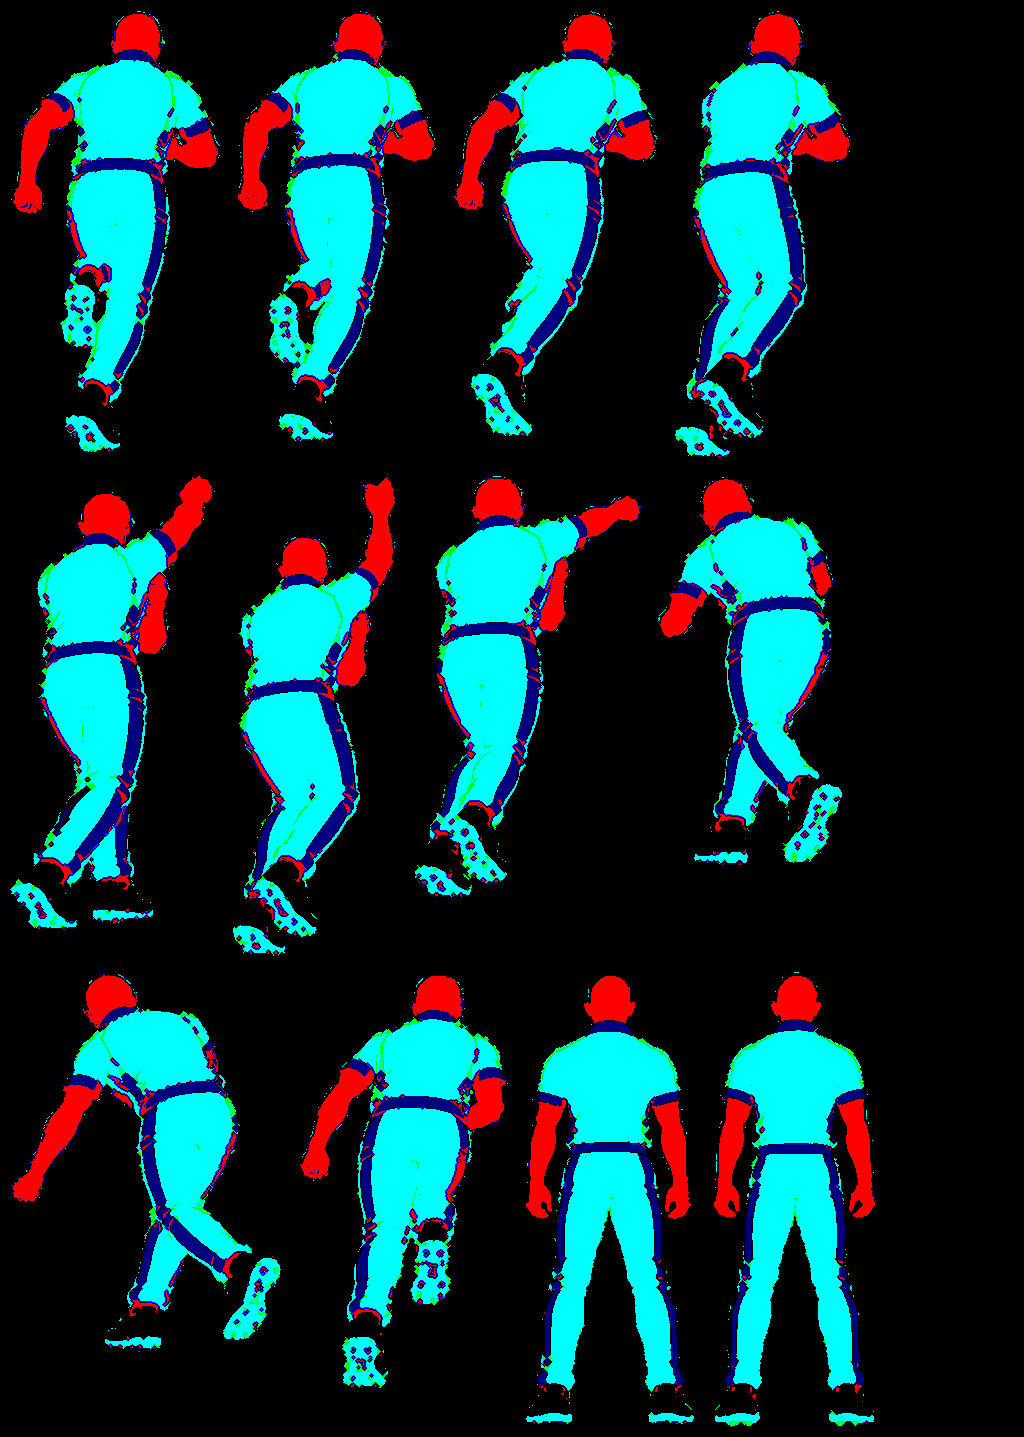
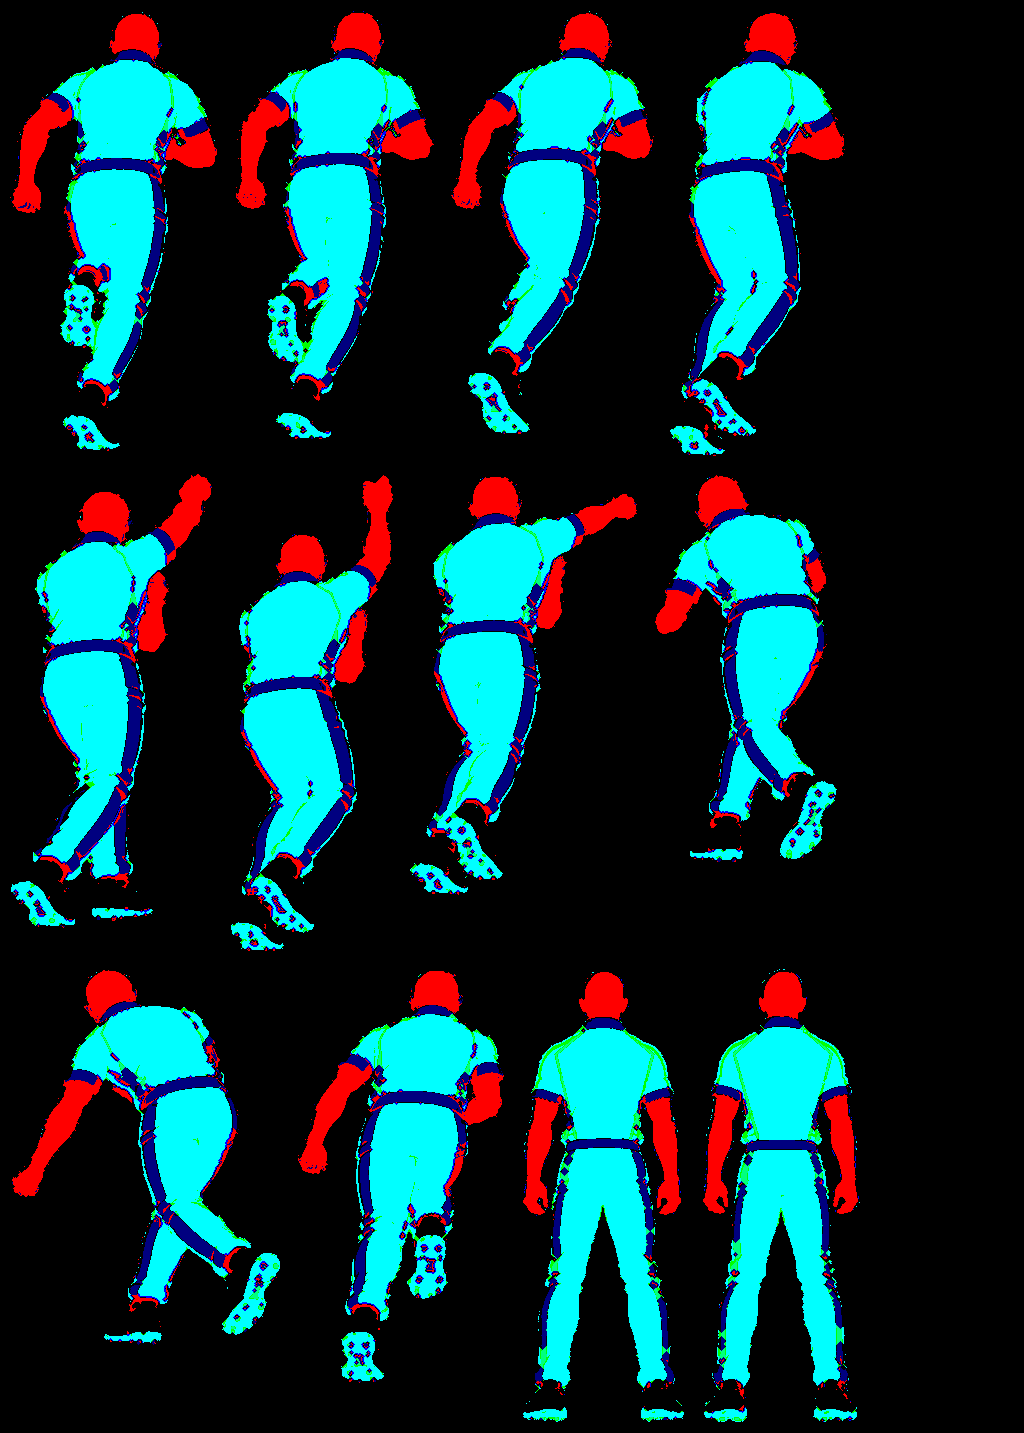
Spinner from behind: the transparent sheet, and his standing poses are the pace bowler as the match really draws him (navy yoke, gold piping), not the plain jersey
Claude-Session: https://claude.ai/code/session_01NK7tbrKg5PdA6fuyEUPXLd

diff --git a/js/kitsheets.js b/js/kitsheets.js
@@ -2,4 +2,4 @@
 // [x, y, w, h, feet x, feet y] in sheet order; place: the crest (front: [x, y, size, squash x,
 // squash y, tilt]) or the name-and-number print (back: [x, y, width, squash x, squash y, tilt,
 // name dx, dy, number dx, dy]) per frame; shading references for the repaint.
-export const KIT_SHEETS = {"front":{"frames":[[4,4,227,609,115.7,602],[235,4,204,603,108.5,596],[443,4,232,595,100.6,588],[679,4,181,601,90.4,594],[4,617,184,670,98.7,663],[192,617,204,657,107.8,650],[400,617,234,531,161.4,524],[638,617,200,532,104.9,525],[4,1291,201,557,90.7,550],[209,1291,216,579,105.9,572]],"place":[[153,167,36,1,1,0],[377,154,35,1,1,0],[591,154,35,1,1,0],[795,159,32,0.9,1,0],[142,863,31,0.95,1,5],[363,868,31,0.95,1,5],[549,761,34,1,0.85,0],[754,762,31,0.95,0.85,-5],[148,1439,35,1,1,0],[359,1454,36,1,1,0]],"refPx":580,"suit":[0.0376,0.2954,0.587],"trim":[0.5314,0.8456,0.9029],"skin":0.7306,"tones":[0.2955,0.2955,0.8423],"hair":{"beard_full":0.2269,"beard_goatee":0.1998,"beard_long":0.1906,"bun":0.2773,"buzz":0.2963,"cap":0.2815,"curly":0.2799,"dreads":0.2727,"long":0.2593,"messy":0.2999,"part":0.3383,"ponytail":0.2813,"spiky":0.2762},"size":[1024,1874]},"back":{"frames":[[4,4,223,593,111.2,586],[231,4,203,585,111.9,578],[438,4,226,585,125.1,578],[668,4,184,572,61.0,565],[4,601,172,628,61.9,621],[180,601,213,636,106.9,629],[397,601,240,538,146.8,531],[641,601,234,534,104.0,527],[4,1241,213,572,115.0,565],[221,1241,215,586,107.6,579]],"place":[[116.6,158.1,88.0,1.0,1.0,0.4,0,0,0,0],[343.2,149.0,88.0,1.0,1.0,0.8,0,0,0,0],[558.0,148.9,88.0,1.0,1.0,0.0,0,0,0,0],[738,149.2,84.5,0.88,1.0,2,-4,0,-2,0],[95.9,814.9,81.0,0.85,0.95,15.1,0,0,0,0],[306.5,801.6,81.0,0.85,0.95,10.9,0,0,0,0],[502,714.2,86.2,1.0,0.75,-6,0,0,0,0],[741,714.7,86.2,1.0,0.75,-6,0,0,0,0],[117.6,1385.2,88.0,1.0,1.0,0.4,0,0,0,0],[331.2,1393.8,89.8,1.0,1.0,0.8,0,0,0,0]],"refPx":563,"suit":[0.032,0.3087,0.5514],"trim":[0.5231,0.8489,0.9123],"skin":0.7332,"tones":[0.3087,0.3087,0.8455],"hair":{"bun":0.2553,"buzz":0.2918,"cap":0.2709,"curly":0.2702,"dreads":0.2718,"long":0.2647,"messy":0.2757,"part":0.2824,"ponytail":0.2667,"spiky":0.2812},"size":[1024,1831]},"spin-front":{"frames":[[4,4,182,471,90.8,464],[190,4,175,474,103.6,467],[369,4,172,473,91.2,466],[545,4,173,483,87.0,476],[722,4,165,515,62.2,508],[4,523,164,565,80.0,558],[172,523,152,564,71.3,544],[328,523,165,547,53.2,528],[497,523,255,478,85.7,461],[756,523,173,413,62.2,400],[4,1092,264,385,95.9,378],[272,1092,180,405,108.1,398],[456,1092,144,425,76.3,418],[604,1092,179,431,74.7,424],[787,1092,192,438,94.7,431]],"place":[[133,134,26,1,1,0],[324,133,24,1,1,0],[503,130,24,1,1,0],[663,127,24,1,1,0],[848,180,24,1,1,0],[145,711,22,0.9,1,0],[268,717,21,0.9,1,0],[456,715,21,0.9,1,0],[646,705,20,0.9,0.9,10],[872,632,20,0.9,0.85,0],[118,1191,19,0.9,0.85,0],[368,1192,21,1,0.9,0],[524,1199,22,1,0.95,0],[728,1206,26,1,1,0],[918,1204,26,1,1,0]],"refPx":441,"suit":[0.0299,0.3355,0.4715],"trim":[0.548,0.8593,0.9122],"skin":0.7273,"tones":[0.341,0.154,0.8608],"hair":{"beard_full":0.1972,"beard_goatee":0.2001,"beard_long":0.2064,"bun":0.2433,"buzz":0.241,"cap":0.2898,"curly":0.2653,"dreads":0.2535,"long":0.2468,"messy":0.2721,"part":0.2843,"ponytail":0.2781,"spiky":0.2609},"size":[1024,1534]},"spin-back":{"frames":[[4,4,222,455,89.7,448],[230,4,212,444,76.3,437],[446,4,218,439,62.3,432],[668,4,189,461,44.7,454],[4,469,217,468,77.7,461],[225,469,178,493,44.7,486],[407,469,241,435,49.8,428],[652,469,197,404,103.5,397],[4,966,284,392,161.7,385],[292,966,222,429,72.1,422],[518,966,183,467,91.3,460],[705,966,178,467,89.2,460]],"place":[],"refPx":455,"suit":[0.0417,0.3581,0.5425],"trim":[0.5836,0.8605,0.9225],"skin":0.7246,"hair":{},"size":[1024,1437]},"bat-back":{"frames":[[4,4,248,534,127.4,527],[256,4,291,536,114.4,529],[551,4,247,535,126.7,528],[802,4,283,538,117.1,531],[1089,4,237,534,113.5,527],[1330,4,310,635,102.2,628],[4,643,438,523,123.2,516],[446,643,394,523,242.9,516],[844,643,398,524,207.5,517],[1246,643,243,468,91.2,461],[1493,643,229,458,81.5,451],[1726,643,197,456,73.9,449],[4,1171,213,517,108.2,510],[221,1171,264,515,121.3,508],[489,1171,381,501,205.5,494],[874,1171,329,471,80.2,464],[1207,1171,201,510,95.2,503],[1412,1171,161,645,75.2,638],[1577,1171,302,505,119.4,498],[4,1820,340,405,92.8,398],[348,1820,373,419,82.2,412],[725,1820,235,523,91.4,516],[964,1820,195,665,107.2,658],[1163,1820,336,523,170.4,516],[1503,1820,388,542,201.0,535],[4,2489,364,523,108.1,516]],"place":[[110.5,145,87.2,1,1,16.3,0,0,0,0],[366.5,144,89.6,1,1,21.6,0,0,0,0],[660.0,146,86.4,1,1,17.1,0,0,0,0],[905.0,148,87.2,1,1,18.6,0,0,0,0],[1199.0,145,88.0,1,1,19.2,0,0,0,0],[1473.0,237,91.2,1,1,14.7,0,0,0,0],[157.0,762,93.6,1,1,3.2,0,0,0,0],[761.5,781,94.4,1,1,10.1,0,0,0,0],[1171.0,781,90.4,1,1,9.6,0,0,0,0],[1355.0,760,84.0,1,1,1.5,0,0,0,0],[1592.0,760,91.2,1,1,-0.9,0,0,0,0],[1815.0,767,96.0,1,1,3.4,0,0,0,0],[122.5,1293,85.6,1,1,16.8,0,0,0,0],[324.5,1303,96.8,1,1,4.1,0,0,0,0],[597.0,1301,95.2,1,1,8.8,0,0,0,0],[972.5,1302,96.0,1,1,7.3,0,0,0,0],[1324.5,1307,92.0,1,1,6.0,0,0,0,0],[1483.5,1450,92.0,1,1,1.6,0,0,0,0],[1760.5,1408,87.2,1,1,6.1,0,0,0,0],[114.0,1958,103.2,1,1,6.5,0,0,0,0],[504.5,1956,94.4,1,1,-0.9,0,0,0,0],[824.5,1941,94.4,1,1,7.8,0,0,0,0],[1083.5,2081,88.0,1,1,9.2,0,0,0,0],[1261.5,1955,98.4,1,1,11.6,0,0,0,0],[1822.0,1972,83.2,1,1,11.6,0,0,0,0],[88.0,2611,92.0,1,1,0.4,0,0,0,0]],"refPx":522,"suit":[0.0269,0.3529,0.5925],"trim":[0.5451,0.8592,0.9209],"skin":0.6414,"tones":[0.3586,0.2,0.8608],"hair":{},"size":[2048,3016]},"field":{"frames":[[4,4,425,453,214.6,446],[433,4,376,459,180.8,452],[813,4,407,455,200.5,448],[1224,4,294,543,132.5,536],[1522,4,266,555,119.8,548],[4,563,282,545,146.0,538],[290,563,323,540,153.3,533],[617,563,416,478,255.7,471],[1037,563,399,471,239.2,464],[1440,563,416,479,226.6,472],[4,1112,498,472,240.3,465],[506,1112,334,461,194.5,454],[844,1112,389,467,201.6,460],[1237,1112,290,468,134.9,461],[1531,1112,237,468,118.4,461],[4,1588,331,343,227.7,336],[339,1588,473,278,360.6,271],[816,1588,480,172,199.7,165],[1300,1588,337,172,238.3,165],[4,1935,444,498,209.6,491],[452,1935,293,588,174.3,581],[749,1935,424,503,212.8,496],[1177,1935,325,396,172.6,389],[1506,1935,354,418,177.7,411],[4,2527,358,410,163.6,403],[366,2527,433,269,300.7,262],[803,2527,313,384,165.7,377],[1120,2527,314,393,165.6,386],[1438,2527,418,382,217.0,375],[4,2941,455,291,300.0,284],[463,2941,279,574,142.6,567],[746,2941,283,525,142.6,518],[1033,2941,330,573,155.7,566],[1367,2941,288,573,148.0,566],[1659,2941,234,574,118.0,567],[4,3519,232,571,109.8,564],[240,3519,219,572,103.9,565],[463,3519,236,568,117.4,561],[703,3519,228,575,111.3,568],[935,3519,240,570,118.5,563],[1179,3519,238,570,119.8,563],[1421,3519,223,572,107.1,565]],"place":[[10,10,0,1,1,0,0,0,0,0],[439,10,0,1,1,0,0,0,0,0],[1017.0,139,100.8,1,1,1.9,0,0,0,0],[1394.5,134,101.6,1,1,22.4,0,0,0,0],[1652.0,138,104.0,1,1,11.0,0,0,0,0],[174.0,696,97.6,1,1,7.0,0,0,0,0],[458.5,691,98.4,1,1,11.3,0,0,0,0],[623,569,0,1,1,0,0,0,0,0],[1043,569,0,1,1,0,0,0,0,0],[1446,569,0,1,1,0,0,0,0,0],[10,1118,0,1,1,0,0,0,0,0],[512,1118,0,1,1,0,0,0,0,0],[850,1117,0,1,1,0,0,0,0,0],[1405.0,1231,90.4,1,1,15.0,0,0,0,0],[1673.0,1223,85.6,1,1,3.9,0,0,0,0],[10,1594,0,1,1,0,0,0,0,0],[345,1594,0,1,1,0,0,0,0,0],[822,1594,0,1,1,0,0,0,0,0],[1306,1594,0,1,1,0,0,0,0,0],[10,1941,0,1,1,0,0,0,0,0],[458,1941,0,1,1,0,0,0,0,0],[755,1941,0,1,1,0,0,0,0,0],[1183,1941,0,1,1,0,0,0,0,0],[1512,1941,0,1,1,0,0,0,0,0],[10,2533,0,1,1,0,0,0,0,0],[372,2533,0,1,1,0,0,0,0,0],[973.5,2643,76.8,1,1,1.8,0,0,0,0],[1296.5,2644,77.6,1,1,8.0,0,0,0,0],[1690.0,2629,61.6,1,1,16.7,0,0,0,0],[10,2947,0,1,1,0,0,0,0,0],[469,2947,0,1,1,0,0,0,0,0],[752,2947,0,1,1,0,0,0,0,0],[1039,2947,0,1,1,0,0,0,0,0],[1373,2947,0,1,1,0,0,0,0,0],[1665,2947,0,1,1,0,0,0,0,0],[10,3525,0,1,1,0,0,0,0,0],[246,3525,0,1,1,0,0,0,0,0],[469,3525,0,1,1,0,0,0,0,0],[709,3525,0,1,1,0,0,0,0,0],[941,3525,0,1,1,0,0,0,0,0],[1185,3525,0,1,1,0,0,0,0,0],[1427,3525,0,1,1,0,0,0,0,0]],"refPx":441,"suit":[0.0644,0.3368,0.6113],"trim":[0.5563,0.8516,0.9209],"skin":0.7707,"tones":[0.3422,0.2038,0.8539],"hair":{},"size":[2048,4098]}};
+export const KIT_SHEETS = {"front":{"frames":[[4,4,227,609,115.7,602],[235,4,204,603,108.5,596],[443,4,232,595,100.6,588],[679,4,181,601,90.4,594],[4,617,184,670,98.7,663],[192,617,204,657,107.8,650],[400,617,234,531,161.4,524],[638,617,200,532,104.9,525],[4,1291,201,557,90.7,550],[209,1291,216,579,105.9,572]],"place":[[153,167,36,1,1,0],[377,154,35,1,1,0],[591,154,35,1,1,0],[795,159,32,0.9,1,0],[142,863,31,0.95,1,5],[363,868,31,0.95,1,5],[549,761,34,1,0.85,0],[754,762,31,0.95,0.85,-5],[148,1439,35,1,1,0],[359,1454,36,1,1,0]],"refPx":580,"suit":[0.0376,0.2954,0.587],"trim":[0.5314,0.8456,0.9029],"skin":0.7306,"tones":[0.2955,0.2955,0.8423],"hair":{"beard_full":0.2269,"beard_goatee":0.1998,"beard_long":0.1906,"bun":0.2773,"buzz":0.2963,"cap":0.2815,"curly":0.2799,"dreads":0.2727,"long":0.2593,"messy":0.2999,"part":0.3383,"ponytail":0.2813,"spiky":0.2762},"size":[1024,1874]},"back":{"frames":[[4,4,223,593,111.2,586],[231,4,203,585,111.9,578],[438,4,226,585,125.1,578],[668,4,184,572,61.0,565],[4,601,172,628,61.9,621],[180,601,213,636,106.9,629],[397,601,240,538,146.8,531],[641,601,234,534,104.0,527],[4,1241,213,572,115.0,565],[221,1241,215,586,107.6,579]],"place":[[116.6,158.1,88.0,1.0,1.0,0.4,0,0,0,0],[343.2,149.0,88.0,1.0,1.0,0.8,0,0,0,0],[558.0,148.9,88.0,1.0,1.0,0.0,0,0,0,0],[738,149.2,84.5,0.88,1.0,2,-4,0,-2,0],[95.9,814.9,81.0,0.85,0.95,15.1,0,0,0,0],[306.5,801.6,81.0,0.85,0.95,10.9,0,0,0,0],[502,714.2,86.2,1.0,0.75,-6,0,0,0,0],[741,714.7,86.2,1.0,0.75,-6,0,0,0,0],[117.6,1385.2,88.0,1.0,1.0,0.4,0,0,0,0],[331.2,1393.8,89.8,1.0,1.0,0.8,0,0,0,0]],"refPx":563,"suit":[0.032,0.3087,0.5514],"trim":[0.5231,0.8489,0.9123],"skin":0.7332,"tones":[0.3087,0.3087,0.8455],"hair":{"bun":0.2553,"buzz":0.2918,"cap":0.2709,"curly":0.2702,"dreads":0.2718,"long":0.2647,"messy":0.2757,"part":0.2824,"ponytail":0.2667,"spiky":0.2812},"size":[1024,1831]},"spin-front":{"frames":[[4,4,182,471,90.8,464],[190,4,175,474,103.6,467],[369,4,172,473,91.2,466],[545,4,173,483,87.0,476],[722,4,165,515,62.2,508],[4,523,164,565,80.0,558],[172,523,152,564,71.3,544],[328,523,165,547,53.2,528],[497,523,255,478,85.7,461],[756,523,173,413,62.2,400],[4,1092,264,385,95.9,378],[272,1092,180,405,108.1,398],[456,1092,144,425,76.3,418],[604,1092,179,431,74.7,424],[787,1092,192,438,94.7,431]],"place":[[133,134,26,1,1,0],[324,133,24,1,1,0],[503,130,24,1,1,0],[663,127,24,1,1,0],[848,180,24,1,1,0],[145,711,22,0.9,1,0],[268,717,21,0.9,1,0],[456,715,21,0.9,1,0],[646,705,20,0.9,0.9,10],[872,632,20,0.9,0.85,0],[118,1191,19,0.9,0.85,0],[368,1192,21,1,0.9,0],[524,1199,22,1,0.95,0],[728,1206,26,1,1,0],[918,1204,26,1,1,0]],"refPx":441,"suit":[0.0299,0.3355,0.4715],"trim":[0.548,0.8593,0.9122],"skin":0.7273,"tones":[0.341,0.154,0.8608],"hair":{"beard_full":0.1972,"beard_goatee":0.2001,"beard_long":0.2064,"bun":0.2433,"buzz":0.241,"cap":0.2898,"curly":0.2653,"dreads":0.2535,"long":0.2468,"messy":0.2721,"part":0.2843,"ponytail":0.2781,"spiky":0.2609},"size":[1024,1534]},"spin-back":{"frames":[[4,4,221,454,88.4,447],[229,4,211,442,75.2,435],[444,4,216,437,61.2,430],[664,4,188,459,43.8,452],[4,467,215,468,76.8,461],[223,467,177,491,44.9,484],[404,467,240,435,49.8,428],[648,467,195,402,103.2,395],[4,962,283,390,162.5,383],[291,962,220,428,71.2,421],[515,962,176,467,87.9,460],[695,962,171,467,85.4,460]],"place":[],"refPx":455,"suit":[0.0665,0.3627,0.5427],"trim":[0.5613,0.8565,0.9204],"skin":0.7205,"hair":{},"size":[1024,1433]},"bat-back":{"frames":[[4,4,248,534,127.4,527],[256,4,291,536,114.4,529],[551,4,247,535,126.7,528],[802,4,283,538,117.1,531],[1089,4,237,534,113.5,527],[1330,4,310,635,102.2,628],[4,643,438,523,123.2,516],[446,643,394,523,242.9,516],[844,643,398,524,207.5,517],[1246,643,243,468,91.2,461],[1493,643,229,458,81.5,451],[1726,643,197,456,73.9,449],[4,1171,213,517,108.2,510],[221,1171,264,515,121.3,508],[489,1171,381,501,205.5,494],[874,1171,329,471,80.2,464],[1207,1171,201,510,95.2,503],[1412,1171,161,645,75.2,638],[1577,1171,302,505,119.4,498],[4,1820,340,405,92.8,398],[348,1820,373,419,82.2,412],[725,1820,235,523,91.4,516],[964,1820,195,665,107.2,658],[1163,1820,336,523,170.4,516],[1503,1820,388,542,201.0,535],[4,2489,364,523,108.1,516]],"place":[[110.5,145,87.2,1,1,16.3,0,0,0,0],[366.5,144,89.6,1,1,21.6,0,0,0,0],[660.0,146,86.4,1,1,17.1,0,0,0,0],[905.0,148,87.2,1,1,18.6,0,0,0,0],[1199.0,145,88.0,1,1,19.2,0,0,0,0],[1473.0,237,91.2,1,1,14.7,0,0,0,0],[157.0,762,93.6,1,1,3.2,0,0,0,0],[761.5,781,94.4,1,1,10.1,0,0,0,0],[1171.0,781,90.4,1,1,9.6,0,0,0,0],[1355.0,760,84.0,1,1,1.5,0,0,0,0],[1592.0,760,91.2,1,1,-0.9,0,0,0,0],[1815.0,767,96.0,1,1,3.4,0,0,0,0],[122.5,1293,85.6,1,1,16.8,0,0,0,0],[324.5,1303,96.8,1,1,4.1,0,0,0,0],[597.0,1301,95.2,1,1,8.8,0,0,0,0],[972.5,1302,96.0,1,1,7.3,0,0,0,0],[1324.5,1307,92.0,1,1,6.0,0,0,0,0],[1483.5,1450,92.0,1,1,1.6,0,0,0,0],[1760.5,1408,87.2,1,1,6.1,0,0,0,0],[114.0,1958,103.2,1,1,6.5,0,0,0,0],[504.5,1956,94.4,1,1,-0.9,0,0,0,0],[824.5,1941,94.4,1,1,7.8,0,0,0,0],[1083.5,2081,88.0,1,1,9.2,0,0,0,0],[1261.5,1955,98.4,1,1,11.6,0,0,0,0],[1822.0,1972,83.2,1,1,11.6,0,0,0,0],[88.0,2611,92.0,1,1,0.4,0,0,0,0]],"refPx":522,"suit":[0.0269,0.3529,0.5925],"trim":[0.5451,0.8592,0.9209],"skin":0.6414,"tones":[0.3586,0.2,0.8608],"hair":{},"size":[2048,3016]},"field":{"frames":[[4,4,425,453,214.6,446],[433,4,376,459,180.8,452],[813,4,407,455,200.5,448],[1224,4,294,543,132.5,536],[1522,4,266,555,119.8,548],[4,563,282,545,146.0,538],[290,563,323,540,153.3,533],[617,563,416,478,255.7,471],[1037,563,399,471,239.2,464],[1440,563,416,479,226.6,472],[4,1112,498,472,240.3,465],[506,1112,334,461,194.5,454],[844,1112,389,467,201.6,460],[1237,1112,290,468,134.9,461],[1531,1112,237,468,118.4,461],[4,1588,331,343,227.7,336],[339,1588,473,278,360.6,271],[816,1588,480,172,199.7,165],[1300,1588,337,172,238.3,165],[4,1935,444,498,209.6,491],[452,1935,293,588,174.3,581],[749,1935,424,503,212.8,496],[1177,1935,325,396,172.6,389],[1506,1935,354,418,177.7,411],[4,2527,358,410,163.6,403],[366,2527,433,269,300.7,262],[803,2527,313,384,165.7,377],[1120,2527,314,393,165.6,386],[1438,2527,418,382,217.0,375],[4,2941,455,291,300.0,284],[463,2941,279,574,142.6,567],[746,2941,283,525,142.6,518],[1033,2941,330,573,155.7,566],[1367,2941,288,573,148.0,566],[1659,2941,234,574,118.0,567],[4,3519,232,571,109.8,564],[240,3519,219,572,103.9,565],[463,3519,236,568,117.4,561],[703,3519,228,575,111.3,568],[935,3519,240,570,118.5,563],[1179,3519,238,570,119.8,563],[1421,3519,223,572,107.1,565]],"place":[[10,10,0,1,1,0,0,0,0,0],[439,10,0,1,1,0,0,0,0,0],[1017.0,139,100.8,1,1,1.9,0,0,0,0],[1394.5,134,101.6,1,1,22.4,0,0,0,0],[1652.0,138,104.0,1,1,11.0,0,0,0,0],[174.0,696,97.6,1,1,7.0,0,0,0,0],[458.5,691,98.4,1,1,11.3,0,0,0,0],[623,569,0,1,1,0,0,0,0,0],[1043,569,0,1,1,0,0,0,0,0],[1446,569,0,1,1,0,0,0,0,0],[10,1118,0,1,1,0,0,0,0,0],[512,1118,0,1,1,0,0,0,0,0],[850,1117,0,1,1,0,0,0,0,0],[1405.0,1231,90.4,1,1,15.0,0,0,0,0],[1673.0,1223,85.6,1,1,3.9,0,0,0,0],[10,1594,0,1,1,0,0,0,0,0],[345,1594,0,1,1,0,0,0,0,0],[822,1594,0,1,1,0,0,0,0,0],[1306,1594,0,1,1,0,0,0,0,0],[10,1941,0,1,1,0,0,0,0,0],[458,1941,0,1,1,0,0,0,0,0],[755,1941,0,1,1,0,0,0,0,0],[1183,1941,0,1,1,0,0,0,0,0],[1512,1941,0,1,1,0,0,0,0,0],[10,2533,0,1,1,0,0,0,0,0],[372,2533,0,1,1,0,0,0,0,0],[973.5,2643,76.8,1,1,1.8,0,0,0,0],[1296.5,2644,77.6,1,1,8.0,0,0,0,0],[1690.0,2629,61.6,1,1,16.7,0,0,0,0],[10,2947,0,1,1,0,0,0,0,0],[469,2947,0,1,1,0,0,0,0,0],[752,2947,0,1,1,0,0,0,0,0],[1039,2947,0,1,1,0,0,0,0,0],[1373,2947,0,1,1,0,0,0,0,0],[1665,2947,0,1,1,0,0,0,0,0],[10,3525,0,1,1,0,0,0,0,0],[246,3525,0,1,1,0,0,0,0,0],[469,3525,0,1,1,0,0,0,0,0],[709,3525,0,1,1,0,0,0,0,0],[941,3525,0,1,1,0,0,0,0,0],[1185,3525,0,1,1,0,0,0,0,0],[1427,3525,0,1,1,0,0,0,0,0]],"refPx":441,"suit":[0.0644,0.3368,0.6113],"trim":[0.5563,0.8516,0.9209],"skin":0.7707,"tones":[0.3422,0.2038,0.8539],"hair":{},"size":[2048,4098]}};

diff --git a/tools/build_spin_back.py b/tools/build_spin_back.py
@@ -1,12 +1,12 @@
 #!/usr/bin/env python3
 """The off-spinner from behind in the plain kit: img/kit/spin-back.webp (+ -mask.png) and its entry in
-js/kitsheets.js, built from tools/kit/src/spinner-back.png (10 poses on magenta, two rows of five: three run-up
+js/kitsheets.js, built from tools/kit/src/spinner-back.png (10 poses on a transparent background, two rows of five: three run-up
 strides, the gather, the coil with the arm up, the release, the arm swinging through, two bends of the follow-through
 and a recovery stride).
 
-The sheet has no standing pose, so two are taken from the pace bowler's own sheet (img/kit/back.webp: his stance and
-his last, standing, pose), scaled to the spinner's size and put in a third row: they are the spinner's start, finish,
-fielding and reacting poses. The poses are then cut and repainted like the pace bowler's (tools/build_kit_sheets.py: the
+The sheet has no standing pose, so two are taken from the pace bowler as the match really draws him (the premium kit with
+the navy yoke: tools/kit/render_pace_poses.mjs writes tools/kit/src/pace/start.png and field.png, bald and without a name),
+scaled to the spinner's size and put in a third row: they are the spinner's start, finish, fielding and reacting poses. The poses are then cut and repainted like the pace bowler's (tools/build_kit_sheets.py: the
 same masks, R skin, G shirt, B kit 255 suit / 128 trim), with no hair and no name and number print yet. The white ball the
 generator drew in the hand is taken out first: the game draws its own.
 
@@ -24,7 +24,8 @@ sys.path.insert(0, os.path.dirname(__file__))
 from build_kit_sheets import build, write_sheets  # noqa: E402
 
 SRC = 'tools/kit/src/spinner-back.png'
-PACE = [0, 9]          # the pace sheet's stance and his last pose (both standing)
+PACE = ['start', 'field']   # the pace bowler's stance and his last, standing, pose (tools/kit/src/pace/<name>.png)
+MAGENTA = (250, 0, 250)     # (what the cutting expects behind a pose: the sheets are flattened onto it)
 STAND_H = 455          # the standing pose's height in the spinner's sheet
 EXTRA_Y = 1040         # the third row
 ROWH = 520             # (build_kit_sheets orders the poses by this row height)
@@ -60,15 +61,16 @@ def pose_boxes(a):
     return boxes
 
 
-def pace_pose(i, meta):
-    """one pose of the pace bowler's sheet on magenta, scaled to the spinner's standing height"""
-    x, y, w, h = meta['frames'][i][:4]
-    im = Image.open('img/kit/back.webp').convert('RGBA').crop((x, y, x + w, y + h))
-    bb = im.getchannel('A').point(lambda v: 255 if v > 128 else 0).getbbox()
-    im = im.crop(bb)
+def pace_pose(name):
+    """one pose of the pace bowler as the match draws him, on magenta, scaled to the spinner's standing height"""
+    im = Image.open(f'tools/kit/src/pace/{name}.png').convert('RGBA')
+    al = np.array(im.getchannel('A'))
+    al[al < 110] = 0   # (the soft ground shadow the game puts under him goes)
+    im.putalpha(Image.fromarray(al))
+    im = im.crop(im.getbbox())
     s = STAND_H / im.height
     im = im.resize((round(im.width * s), STAND_H), Image.LANCZOS)
-    bg = Image.new('RGB', im.size, (255, 0, 255))
+    bg = Image.new('RGB', im.size, MAGENTA)
     bg.paste(im, (0, 0), im)
     return bg
 
@@ -76,14 +78,17 @@ def pace_pose(i, meta):
 def main():
     src = open('js/kitsheets.js').read()
     sheets = json.loads(src[src.index('= ') + 2:src.rindex(';')])
-    a = np.array(Image.open(SRC).convert('RGB'))
+    sheet = Image.open(SRC).convert('RGBA')
+    flat = Image.new('RGB', sheet.size, MAGENTA)
+    flat.paste(sheet, (0, 0), sheet)
+    a = np.array(flat)
     clean, n = without_ball(a, pose_boxes(a))
     print('ball pixels removed:', n)
-    canvas = Image.new('RGB', (a.shape[1], EXTRA_Y + STAND_H + 80), (255, 0, 255))
+    canvas = Image.new('RGB', (a.shape[1], EXTRA_Y + STAND_H + 80), MAGENTA)
     canvas.paste(Image.fromarray(clean), (0, 0))
     x = 60
     for i in PACE:
-        p = pace_pose(i, sheets['back'])
+        p = pace_pose(i)
         canvas.paste(p, (x, EXTRA_Y + 20))
         x += p.width + 120
     tmp = os.path.join(tempfile.mkdtemp(), 'spin-back.png')
